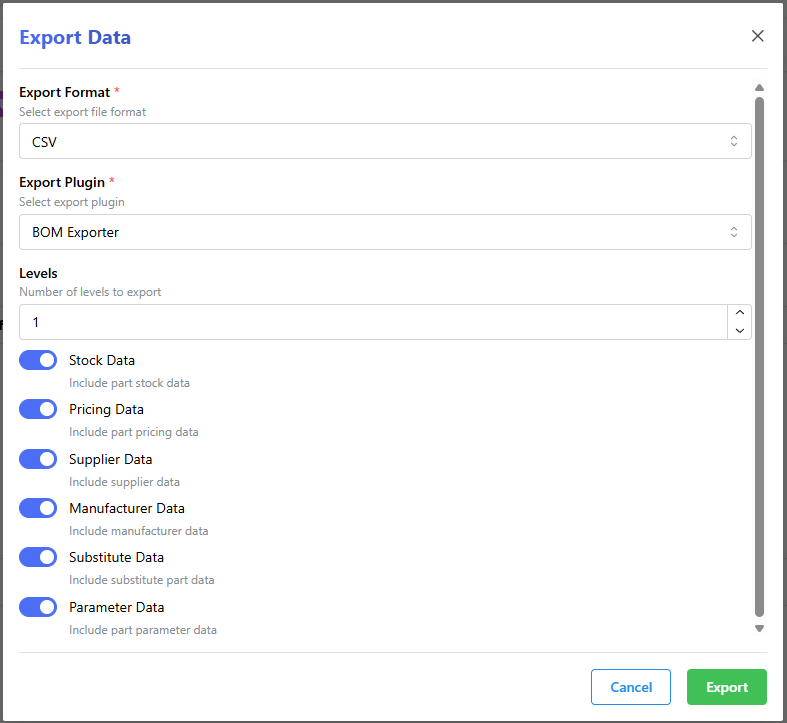
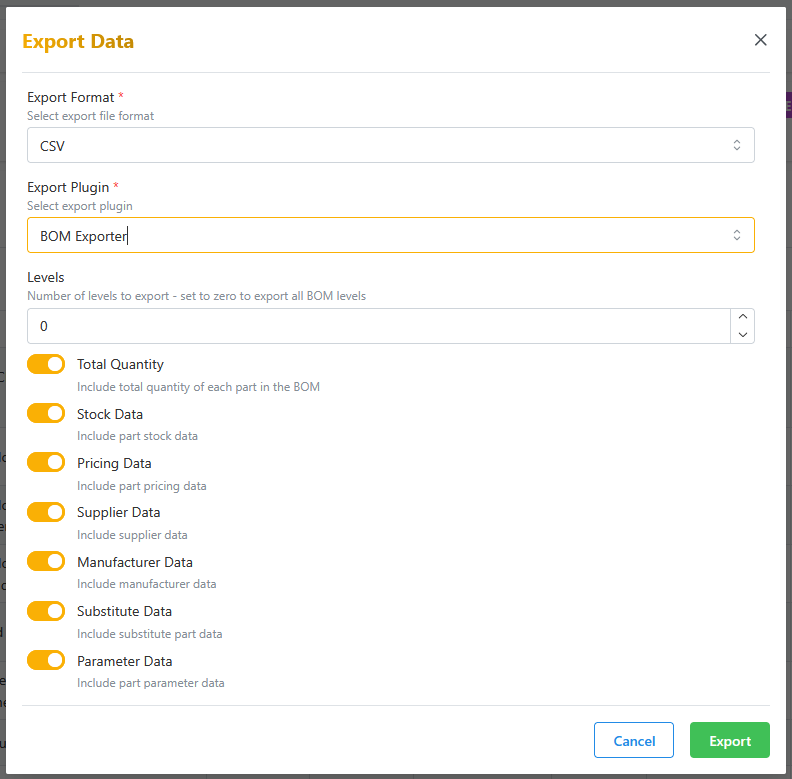
Bom total quantity (#10142)
* Add 'total quantity' field to BOM exporter

* Extend unit test

* Update docs image

Changed region(s): [[0.0, 0.0, 1.0, 1.0]]

diff --git a/src/backend/InvenTree/plugin/builtin/exporter/bom_exporter.py b/src/backend/InvenTree/plugin/builtin/exporter/bom_exporter.py
@@ -1,9 +1,13 @@
 """Multi-level BOM exporter plugin."""
 
+from decimal import Decimal
+from typing import Optional
+
 from django.utils.translation import gettext_lazy as _
 
 import rest_framework.serializers as serializers
 
+from InvenTree.helpers import normalize
 from part.models import BomItem
 from plugin import InvenTreePlugin
 from plugin.mixins import DataExportMixin
@@ -13,10 +17,18 @@ class BomExporterOptionsSerializer(serializers.Serializer):
     """Custom export options for the BOM exporter plugin."""
 
     export_levels = serializers.IntegerField(
-        default=1,
+        default=0,
         label=_('Levels'),
-        help_text=_('Number of levels to export'),
+        help_text=_(
+            'Number of levels to export - set to zero to export all BOM levels'
+        ),
         min_value=0,
+    )
+
+    export_total_quantity = serializers.BooleanField(
+        default=True,
+        label=_('Total Quantity'),
+        help_text=_('Include total quantity of each part in the BOM'),
     )
 
     export_stock_data = serializers.BooleanField(
@@ -57,7 +69,7 @@ class BomExporterPlugin(DataExportMixin, InvenTreePlugin):
     SLUG = 'bom-exporter'
     TITLE = _('Multi-Level BOM Exporter')
     DESCRIPTION = _('Provides support for exporting multi-level BOMs')
-    VERSION = '1.0.0'
+    VERSION = '1.1.0'
     AUTHOR = _('InvenTree contributors')
 
     ExportOptionsSerializer = BomExporterOptionsSerializer
@@ -68,6 +80,8 @@ class BomExporterPlugin(DataExportMixin, InvenTreePlugin):
 
     def update_headers(self, headers, context, **kwargs):
         """Update headers for the BOM export."""
+        export_total_quantity = context.get('export_total_quantity', True)
+
         if not self.export_stock_data:
             # Remove stock data from the headers
             for field in [
@@ -94,6 +108,10 @@ class BomExporterPlugin(DataExportMixin, InvenTreePlugin):
 
         # Append a "BOM Level" field
         headers['level'] = _('BOM Level')
+
+        if export_total_quantity:
+            # Append a 'total quantity' field
+            headers['total_quantity'] = _('Total Quantity')
 
         # Append variant part columns
         if self.export_substitute_data and self.n_substitute_cols > 0:
@@ -167,6 +185,7 @@ class BomExporterPlugin(DataExportMixin, InvenTreePlugin):
         self.export_manufacturer_data = context.get('export_manufacturer_data', True)
         self.export_substitute_data = context.get('export_substitute_data', True)
         self.export_parameter_data = context.get('export_parameter_data', True)
+        self.export_total_quantity = context.get('export_total_quantity', True)
 
         # Pre-fetch related data to reduce database queries
         queryset = self.prefetch_queryset(queryset)
@@ -179,17 +198,22 @@ class BomExporterPlugin(DataExportMixin, InvenTreePlugin):
 
         return self.bom_data
 
-    def process_bom_row(self, bom_item, level, **kwargs) -> list:
+    def process_bom_row(
+        self, bom_item, level: int = 1, multiplier: Optional[Decimal] = None, **kwargs
+    ) -> list:
         """Process a single BOM row.
 
         Arguments:
             bom_item: The BomItem object to process
             level: The current level of export
-
+            multiplier: The multiplier for the quantity (used for recursive calls)
         """
         # Add this row to the output dataset
         row = self.serializer_class(bom_item, exporting=True).data
         row['level'] = level
+
+        if multiplier is None:
+            multiplier = Decimal(1)
 
         # Extend with additional data
 
@@ -205,6 +229,11 @@ class BomExporterPlugin(DataExportMixin, InvenTreePlugin):
         if self.export_parameter_data:
             row.update(self.get_parameter_data(bom_item))
 
+        if self.export_total_quantity:
+            # Calculate the total quantity for this BOM item
+            total_quantity = Decimal(bom_item.quantity) * multiplier
+            row['total_quantity'] = normalize(total_quantity)
+
         self.bom_data.append(row)
 
         # If we have reached the maximum export level, return just this bom item
@@ -215,7 +244,12 @@ class BomExporterPlugin(DataExportMixin, InvenTreePlugin):
             sub_items = self.prefetch_queryset(sub_items)
 
             for item in sub_items.all():
-                self.process_bom_row(item, level + 1, **kwargs)
+                self.process_bom_row(
+                    item,
+                    level=level + 1,
+                    multiplier=multiplier * bom_item.quantity,
+                    **kwargs,
+                )
 
     def get_substitute_data(self, bom_item: BomItem) -> dict:
         """Return substitute part data for a BomItem."""

diff --git a/src/backend/InvenTree/part/test_api.py b/src/backend/InvenTree/part/test_api.py
@@ -2809,7 +2809,7 @@ class BomItemTest(InvenTreeAPITestCase):
             )
 
         # Check that the correct exporter plugin has been used
-        required_cols.extend(['BOM Level'])
+        required_cols.extend(['BOM Level', 'Total Quantity'])
 
         # Next, download BOM data for a specific sub-assembly, and use the BOM exporter
         with self.export_data(
